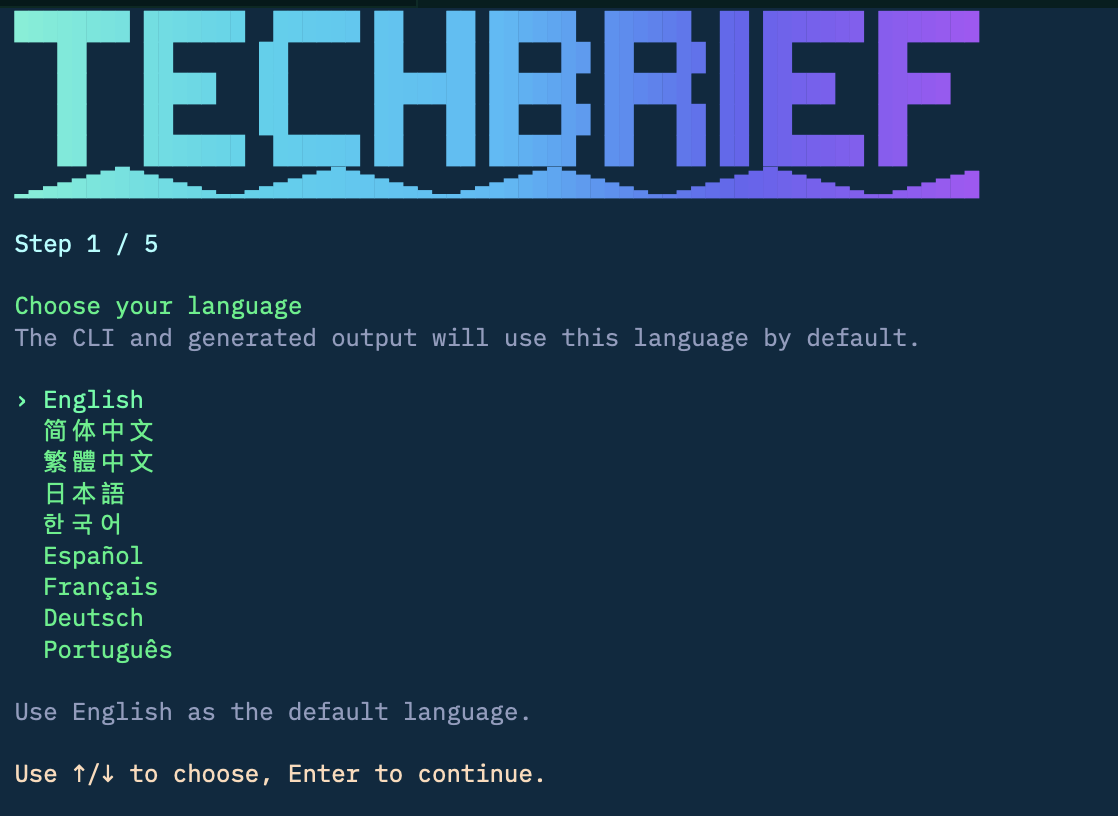
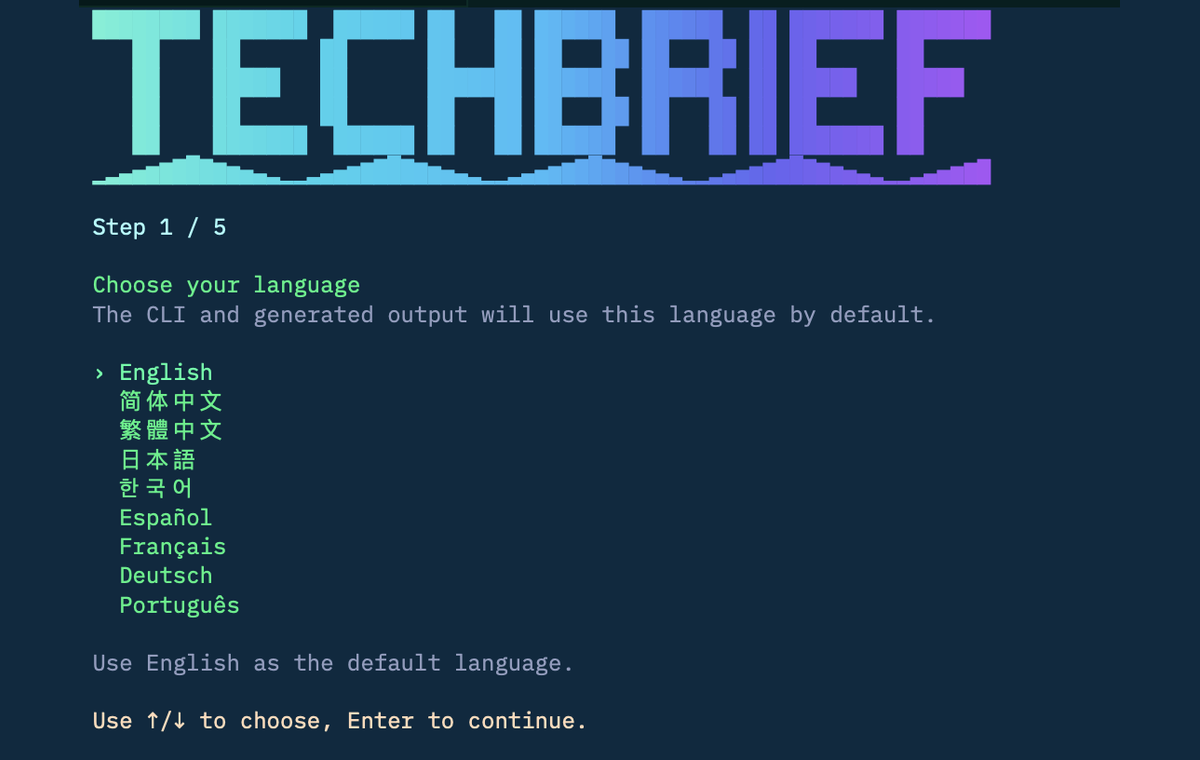
docs: uniform README screenshot sizes

diff --git a/README.md b/README.md
@@ -8,7 +8,7 @@ gives each one a short summary. Pick your reading language: anything not already
 in it is translated by AI (reading in English needs no AI at all). You read it
 all in a clean web page or on your phone.
 
-![The TechBrief web reader](https://raw.githubusercontent.com/pubwave/techbrief/main/assets/home/web-reader.png)
+<img src="https://raw.githubusercontent.com/pubwave/techbrief/main/assets/home/web-reader.png" alt="The TechBrief web reader" width="600">
 
 ## Get started
 
@@ -30,7 +30,7 @@ The first time you run it, a short setup guide asks a few questions (your
 language, and which AI to use). After that, TechBrief starts up and opens the
 reader in your browser automatically.
 
-![First‑run setup guide](https://raw.githubusercontent.com/pubwave/techbrief/main/assets/home/cli-setup.png)
+<img src="https://raw.githubusercontent.com/pubwave/techbrief/main/assets/home/cli-setup.png" alt="First-run setup guide" width="600">
 
 That's it.
 
@@ -55,7 +55,7 @@ same Wi‑Fi as your computer:
 techbrief mobile run ios       # or: android
 ```
 
-![The TechBrief mobile app](https://raw.githubusercontent.com/pubwave/techbrief/main/assets/home/mobile-app.png)
+<img src="https://raw.githubusercontent.com/pubwave/techbrief/main/assets/home/mobile-app.png" alt="The TechBrief mobile app" width="600">
 
 Once it's installed, just open the app and start reading.
 
